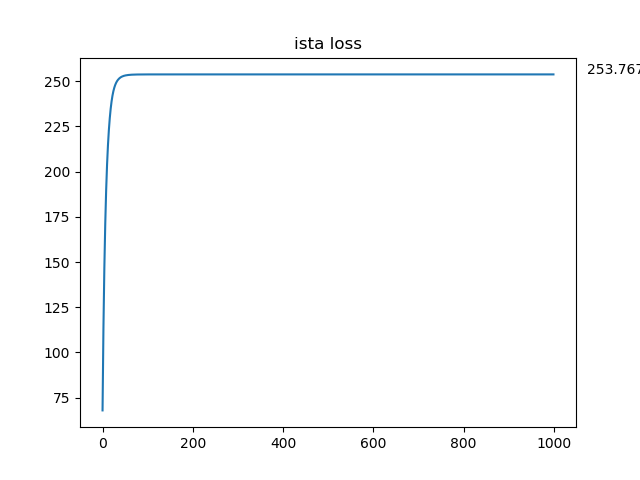
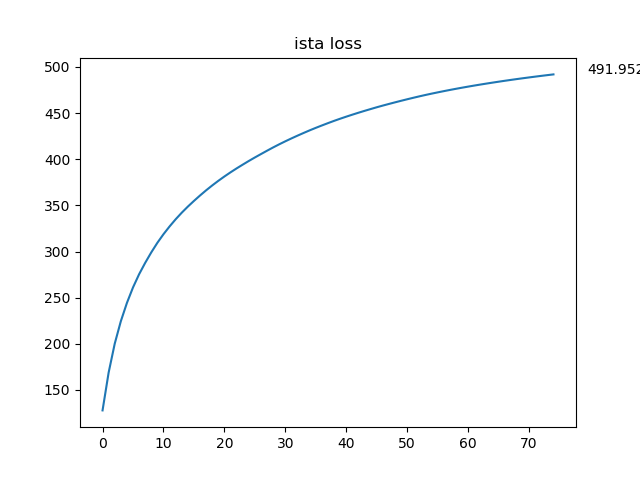
dict learning executable working

diff --git a/run_demo.py b/run_demo.py
@@ -40,7 +40,7 @@ parser.add_argument('--dataset', type=str, default='mnist',
                     help='"mnist", "fashion_mnist", "cifar10", "ASIRRA", ...')
 parser.add_argument('--valid-size',type=int, default=-1, metavar='N',
                     help='Number of samples removed for validation. If N<=0, test set is used.')
-parser.add_argument('--patch-size',type=int, default=10, metavar='p',
+parser.add_argument('--patch-size',type=int, default=32, metavar='p',
                     help='Breaks each image into pxp subimages.')
 parser.add_argument('--overComplete', type=float, default=1, metavar='d',
                     help='Defines dictionary as d-overcomplete (number of times overcomplete)')
@@ -72,7 +72,7 @@ parser.add_argument('--momentum', type=float, default=0,
 ########### Logistics
 parser.add_argument('--no-cuda', action='store_true', default=False,
                     help='Disables CUDA training.')
-parser.add_argument('--save-filename', type=str, default='./no-name',
+parser.add_argument('--save-filename', type=str, default='./results/tmp/no-name',
                     help='Path to directory where everything gets saved.')
 parser.add_argument('--use-HPO-params', action='store_true', default=False,
                     help='If true, uses the hyperparameters found by grid search (stored in "paramSearchResults").')
@@ -84,7 +84,8 @@ parser.add_argument('--save-trained-model', action='store_true', default=False,
                     help='If true, saves trained model with ddict().')
 parser.add_argument('--visualize-dict-atoms', action='store_true', default=False,
                     help='If true, saves image of dictionary atoms during training.')
-
+parser.add_argument('--print-frequency', type=int, default=4,
+                    help='Number of print statements per epoch.')
 
 #######################################################
 # (1) Unpack user inputs.
@@ -132,6 +133,14 @@ print('\n* Loading dataset {}'.format(args.dataset))
 #TODO: valid!!
 rand.seed(args.data_seed)
 train_loader, test_loader = loadData(dataset, patch_size, batch_size)
+
+if hasattr(train_loader, 'numSamples'):
+  numTrData = train_loader.numSamples
+  numTeData = test_loader.numSamples
+else:
+  numTrData = len(train_loader.dataset)
+  numTeData = len(test_loader.dataset)
+
 
 # Now set up CUDA and reset all RNG's.
 device = torch.device("cuda:0" if not args.no_cuda and torch.cuda.is_available() else "cpu")
@@ -184,11 +193,11 @@ if __name__ == "__main__":
     print('DICTIONARY TRAINING XXXXXXXXXXXXXXXXXXXX')
 
     for epoch in range(1, args.max_epochs+1):
+      print('\nEpoch {} of {}.'.format(epoch, args.max_epochs))
       epoch_loss = 0
       epoch_reconErr = 0
 
       for batch_idx, (true_sigs, im_labels) in enumerate(train_loader):
-        print('batch {}/{}'.format(batch_idx,len(train_loader)))
         gc.collect()
         true_sigs = true_sigs.to(device)
 
@@ -221,6 +230,13 @@ if __name__ == "__main__":
         # RECON ERROR
         SH.tr_perf['bw_reconErr'] += [loss.item()]
         epoch_reconErr +=  loss.item()
+
+
+        # Outputs to terminal
+        if batch_idx % int(len(train_loader)/args.print_frequency) == 0:
+          print(' Train Epoch: {} [{}/{} ({:.0f}%)]\tLoss: {:.6f}'.format(
+                  epoch, batch_idx * true_sigs.size(0), numTrData,
+                  100. * batch_idx / len(train_loader), loss.item()))
       # END BATCH-WISE LOOP THRU DATA
 
       epoch_loss     /= batch_idx+1

diff --git a/AUX/class_encoder.py b/AUX/class_encoder.py
@@ -4,7 +4,7 @@ import numpy as np
 import torch
 import torch.nn as nn
 import torch.nn.functional as F
-from AUX.class_dict import dictionary
+from class_dict import dictionary
 
 class ENCODER(nn.Module):
   """
@@ -227,7 +227,7 @@ class ENCODER(nn.Module):
       # Update logistics.
       residual = F.linear(yk, self.We.weight.t()) - data;
     # ISTA step 
-      tmp = yk - self.We(residual)#/self.L
+      tmp = yk - self.We(residual)/self.L
       xk  = F.softshrink(tmp, lambd=self.thresh)
     # FISTA stepsize update:
       tnext = (1 + (1+4*(t**2))**.5)/2 
@@ -284,9 +284,10 @@ def encoder_class_sanity():
   torch.manual_seed(3)
   device='cpu'
 
-  data_size = 20
-  code_size = 10
-  e = ENCODER(data_size, code_size, device=device, n_iter=1000)
+  data_size = 15
+  code_size = 15
+  n_iter    = 75
+  e = ENCODER(data_size, code_size, device=device, n_iter=n_iter)
 
   # Create solutions (sparse codes).
   batch_size=30
@@ -353,7 +354,7 @@ def encoder_class_sanity():
 
   all_loss={}
   max_epoch=150
-  for meth in ['ista','salsa']:
+  for meth in ['ista','salsa', 'fista']:
     all_loss[meth]={}
     print('TRAINING w/ init = {} and alg = {}--------------------------'.format(meth,meth))
     e.initialize_weights_(Dict = D, init_type=meth, mu=1, L1_weight=0.05)
@@ -362,7 +363,7 @@ def encoder_class_sanity():
     # Set up optimizer.
     opt = torch.optim.Adam(e.parameters(), lr=0.001)
 
-    # Compute labels.
+    # Compute labels ("optimal codes").
     with torch.no_grad():
       e.change_n_iter_(1000)
       labels = e(data)
@@ -382,12 +383,8 @@ def encoder_class_sanity():
       opt.step()
       loss_hist += [err.item()]
 
-    if meth=='ista':
-      all_loss[meth]['loss'] = loss_hist
-      all_loss[meth]['x']    = x.detach()
-    elif meth=='salsa':
-      all_loss[meth]['loss'] = loss_hist
-      all_loss[meth]['x']    = x.detach()
+    all_loss[meth]['loss'] = loss_hist
+    all_loss[meth]['x']    = x.detach()
 
 
   # Visualize results.

diff --git a/loadImDat.py b/loadImDat.py
@@ -122,8 +122,8 @@ def loadData(datName, patchSize, batchSize):
     allDatPath = '~/data/'
     # Build preprocessing classes
     normalize  = scaleTo01()
-#    vectorize  = vectorizeIm()
     patchitize = get_patches(patchSize)
+#    vectorize  = vectorizeIm()
     vectorize  = transforms.Lambda(lambda x: x.view(-1, x.shape[-1]*x.shape[-2]))
 
 ##################################################################
